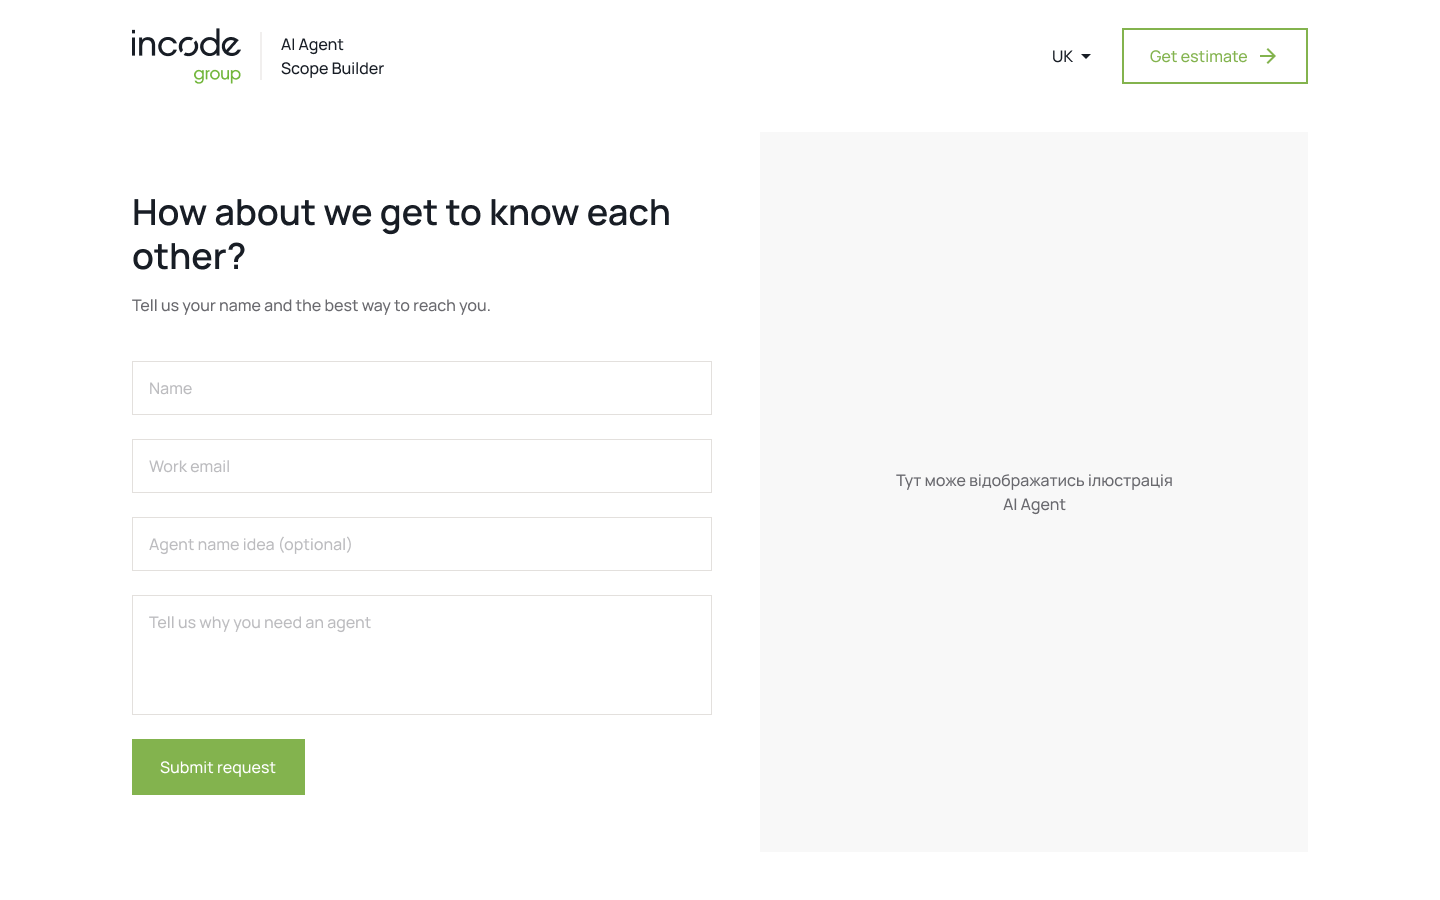
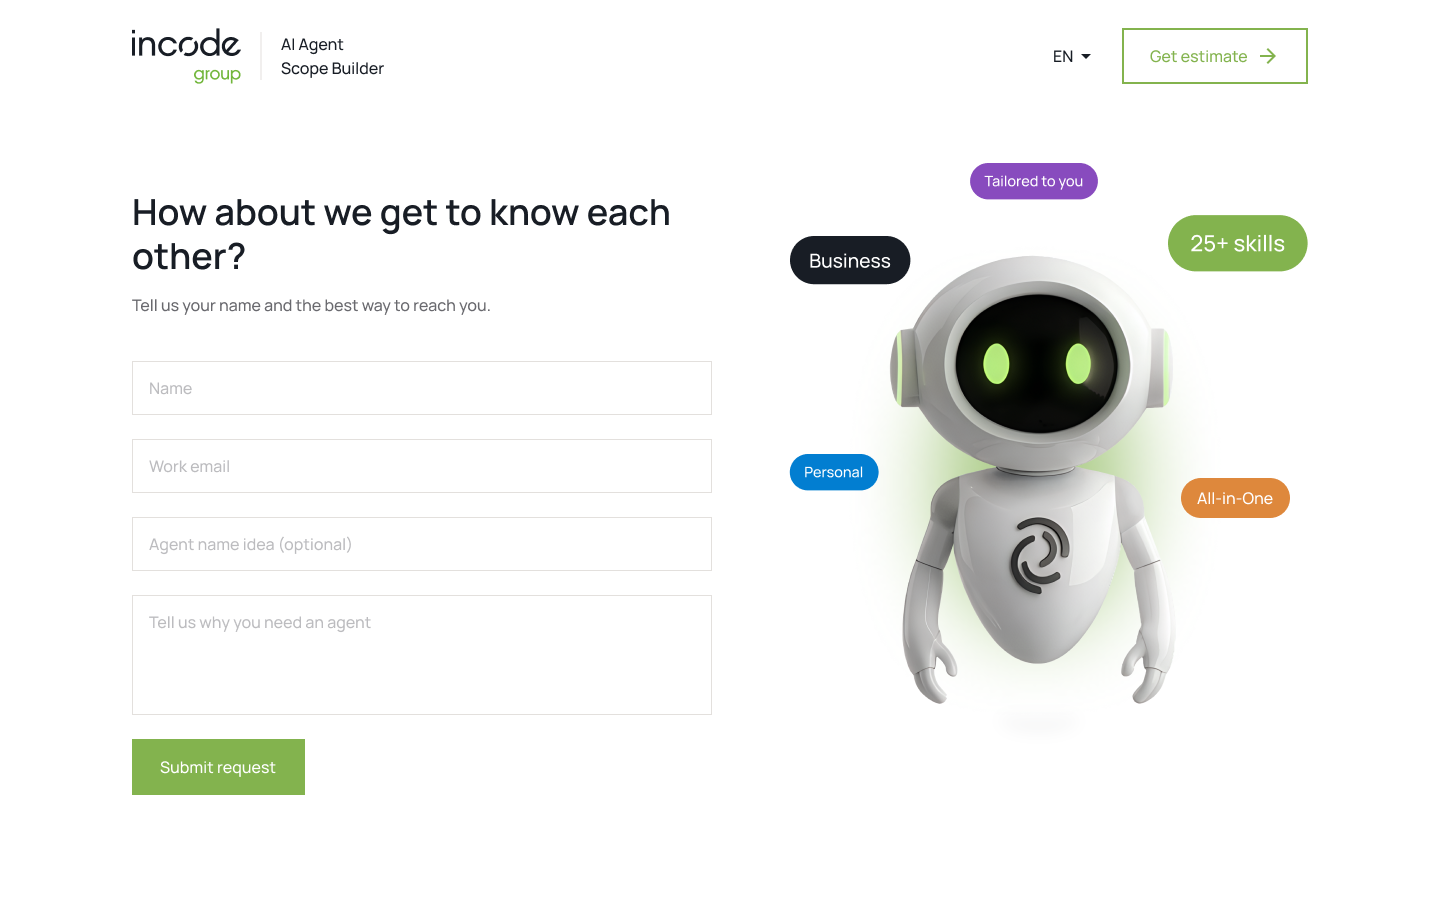
add real illustrations and reusable AppImage component
- Replace ImagePlaceholder with AppImage: resolves public/ paths against
  BASE_URL and multiply-blends the white-background artwork into its frame
- Wire goal and category images into en/uk mocks; landing, quick request
  and thank-you screens use the new illustrations
- Add --thumbnail (#f8f8f8) for goal/category image boxes; white goal preview
- Keep illustrations out of flow so Landing, Quick request and Thank you
  fit the viewport without vertical overflow
- Update header product name and re-exported design mockups

Changed region(s): [[0.5312, 0.2489, 0.9062, 0.7778], [0.8125, 0.2178, 0.9062, 0.3111], [0.6562, 0.1556, 0.7812, 0.2489]]

diff --git a/src/routes/wizard/goal/GoalPreview.tsx b/src/routes/wizard/goal/GoalPreview.tsx
@@ -1,24 +1,22 @@
 import type { Goal } from "@/api/schemas"
-import { ImagePlaceholder } from "@/components/common/ImagePlaceholder"
+import { AppImage } from "@/components/common/AppImage"
 import { Skeleton } from "@/components/common/Skeleton"
-
-/** The image shrinks with the viewport height so the panel fits the screen (see `fitScreen`). */
-const IMAGE_SIZE = "size-[min(18.75rem,30svh)]"
 
 export function GoalPreview({ goal }: { goal: Goal | undefined }) {
   return (
     <div
       aria-live="polite"
-      className="flex h-full flex-col items-center justify-center overflow-hidden bg-panel px-12 py-8 text-center"
+      className="flex h-full flex-col items-center justify-center overflow-hidden px-12 py-8 text-center"
     >
       {goal ? (
         <>
-          <ImagePlaceholder src={goal.image} className={`${IMAGE_SIZE} shrink-0 bg-background`} />
+          {/* Takes whatever height the text leaves, so the panel still fits the screen (see `fitScreen`). */}
+          <AppImage src={goal.image} className="max-h-104 min-h-0 w-full flex-1" />
           <h2 className="mt-9 text-[2rem] leading-tight text-ink">{goal.title}</h2>
           <p className="mt-4 max-w-72 text-base text-ink-muted">{goal.description}</p>
         </>
       ) : (
-        <Skeleton className={IMAGE_SIZE} />
+        <Skeleton className="size-[min(18.75rem,30svh)]" />
       )}
     </div>
   )

diff --git a/src/routes/wizard/skills/CategoryAccordion.tsx b/src/routes/wizard/skills/CategoryAccordion.tsx
@@ -2,7 +2,7 @@ import { Accordion as AccordionPrimitive } from "@base-ui/react/accordion"
 import { MinusIcon, PlusIcon } from "lucide-react"
 import { useTranslation } from "react-i18next"
 import type { Category } from "@/api/schemas"
-import { ImagePlaceholder } from "@/components/common/ImagePlaceholder"
+import { AppImage } from "@/components/common/AppImage"
 import { AccordionItem } from "@/components/ui/accordion"
 import { isCategoryFullySelected } from "@/store/selectors"
 import { useWizardActions, useWizardStore } from "@/store/wizard"
@@ -21,7 +21,10 @@ export function CategoryAccordion({ category }: { category: Category }) {
     >
       <AccordionPrimitive.Header>
         <AccordionPrimitive.Trigger className="group flex w-full items-start gap-3 text-left outline-none focus-visible:ring-3 focus-visible:ring-ring/50 sm:gap-4 cursor-pointer">
-          <ImagePlaceholder src={category.icon} className="size-14 shrink-0 sm:size-20" />
+          <AppImage
+            src={category.icon}
+            className="size-14 shrink-0 bg-thumbnail p-2 sm:size-20 sm:p-2.5"
+          />
           <span className="flex min-w-0 flex-1 flex-col gap-1 pt-1 sm:gap-2">
             <span className="text-lg font-semibold text-ink sm:text-xl">{category.title}</span>
             <span className="text-sm text-ink-muted sm:text-base">{category.description}</span>

diff --git a/src/routes/wizard/components/SummaryPanel.tsx b/src/routes/wizard/components/SummaryPanel.tsx
@@ -3,7 +3,7 @@ import { XIcon } from "lucide-react"
 import { useState } from "react"
 import { useTranslation } from "react-i18next"
 import type { CategoryGroup, Goal } from "@/api/schemas"
-import { ImagePlaceholder } from "@/components/common/ImagePlaceholder"
+import { AppImage } from "@/components/common/AppImage"
 import { Skeleton } from "@/components/common/Skeleton"
 import { selectedByCategory, type SelectedCategory } from "@/store/selectors"
 import { useWizardActions, useWizardStore } from "@/store/wizard"
@@ -23,15 +23,12 @@ export function SummaryPanel({ goal, catalog, onChangeCategory, disabled }: Summ
 
   return (
     <div
-      className="flex flex-col bg-panel p-5 sm:p-8 lg:min-h-159"
+      className="flex flex-col bg-thumbnail p-5 sm:p-8 lg:min-h-159"
       aria-label={t("summary.willDo")}
     >
       {goal ? (
         <div className="flex items-start gap-4">
-          <ImagePlaceholder
-            src={goal.image}
-            className="size-14 shrink-0 bg-background sm:size-20"
-          />
+          <AppImage src={goal.image} className="size-14 shrink-0 sm:size-20" />
           <div className="flex min-w-0 flex-col gap-2">
             <h2 className="text-xl leading-tight text-ink sm:text-[1.75rem]">{goal.title}</h2>
             <p className="text-base text-ink-muted">{goal.description}</p>

diff --git a/src/routes/QuickRequest.tsx b/src/routes/QuickRequest.tsx
@@ -7,7 +7,7 @@ import { useNavigate } from "react-router"
 import { quickRequestSchema, type QuickRequest as QuickRequestValues } from "@/api/schemas"
 import { submitQuickRequest } from "@/api/submit"
 import { FormField } from "@/components/common/FormField"
-import { ImagePlaceholder } from "@/components/common/ImagePlaceholder"
+import { AppImage } from "@/components/common/AppImage"
 import { Button } from "@/components/ui/button"
 import { Input } from "@/components/ui/input"
 import { Textarea } from "@/components/ui/textarea"
@@ -73,9 +73,13 @@ export default function QuickRequest() {
         </form>
       </section>
       {/* The form is the point on smaller screens; the illustration only fills the desktop column. */}
-      <ImagePlaceholder className="h-full max-h-180 min-h-96 bg-panel text-base max-lg:hidden">
-        {t("common.illustrationPlaceholder")}
-      </ImagePlaceholder>
+      <AppImage
+        src="common/landing.jpg"
+        alt={t("common.illustrationAlt")}
+        // Out of flow, so the form sets the page height and the image fills what is left.
+        className="relative h-full max-h-180 min-h-96 max-lg:hidden"
+        imgClassName="absolute inset-0"
+      />
     </main>
   )
 }

diff --git a/src/components/common/AppImage.tsx b/src/components/common/AppImage.tsx
@@ -1,0 +1,29 @@
+import { cn } from "cn"
+import { assetUrl } from "@/lib/utils"
+
+interface AppImageProps extends Omit<React.ImgHTMLAttributes<HTMLImageElement>, "src"> {
+  /** A full URL, a root path, or a path inside `public/` (e.g. `goals/personal.jpg`). */
+  src?: string
+  /** Classes for the `<img>` itself; `className` styles the frame around it. */
+  imgClassName?: string
+}
+
+/**
+ * An image fitted into a frame. The artwork is exported on white, so it is multiply-blended into
+ * whatever background the frame (or its parent) has. Without `src` it renders a neutral grey block.
+ */
+export function AppImage({ src, alt = "", className, imgClassName, ...props }: AppImageProps) {
+  if (!src) return <div aria-hidden className={cn("bg-placeholder", className)} />
+  return (
+    <div className={cn("flex items-center justify-center", className)}>
+      <img
+        src={assetUrl(src)}
+        alt={alt}
+        decoding="async"
+        loading="lazy"
+        className={cn("size-full object-contain mix-blend-multiply", imgClassName)}
+        {...props}
+      />
+    </div>
+  )
+}

diff --git a/src/routes/Success.tsx b/src/routes/Success.tsx
@@ -1,14 +1,17 @@
 import { useTranslation } from "react-i18next"
-import { ImagePlaceholder } from "@/components/common/ImagePlaceholder"
+import { AppImage } from "@/components/common/AppImage"
 
 export default function Success() {
   const { t } = useTranslation()
   return (
-    <main className="flex flex-1 flex-col items-center pt-12 pb-24 text-center sm:pt-24 lg:pt-36">
-      <ImagePlaceholder className="size-48 bg-panel sm:size-75" />
-      <h1 className="mt-9 text-[1.75rem] text-ink sm:text-[2rem]">
-        {t("success.title")}
-      </h1>
+    <main className="flex flex-1 flex-col items-center pt-8 pb-24 text-center sm:pt-6">
+      {/* Out of flow, so the image takes only the height the text leaves (up to its cap). */}
+      <AppImage
+        src="common/thank_you.jpg"
+        className="relative min-h-60 w-full flex-1 sm:max-h-120"
+        imgClassName="absolute inset-0"
+      />
+      <h1 className="mt-9 text-[1.75rem] text-ink sm:text-[2rem]">{t("success.title")}</h1>
       <p className="mt-2 max-w-sm text-base text-ink-muted">{t("success.subtitle")}</p>
     </main>
   )

diff --git a/src/routes/Landing.tsx b/src/routes/Landing.tsx
@@ -1,6 +1,6 @@
 import { AlarmClockIcon, ArrowRightIcon } from "lucide-react"
 import { useTranslation } from "react-i18next"
-import { ImagePlaceholder } from "@/components/common/ImagePlaceholder"
+import { AppImage } from "@/components/common/AppImage"
 import { ButtonLink } from "@/components/common/ButtonLink"
 
 export default function Landing() {
@@ -27,9 +27,14 @@ export default function Landing() {
           </ButtonLink>
         </div>
       </section>
-      <ImagePlaceholder className="h-80 bg-panel text-base max-md:hidden lg:h-full lg:max-h-180 lg:min-h-96">
-        {t("common.illustrationPlaceholder")}
-      </ImagePlaceholder>
+      <AppImage
+        src="common/landing.jpg"
+        alt={t("common.illustrationAlt")}
+        fetchPriority="high"
+        // Out of flow, so the text column sets the page height and the image fills what is left.
+        className="relative h-80 max-md:hidden lg:h-full lg:max-h-180 lg:min-h-96"
+        imgClassName="absolute inset-0"
+      />
     </main>
   )
 }

diff --git a/src/routes/wizard/goal/GoalCard.tsx b/src/routes/wizard/goal/GoalCard.tsx
@@ -1,6 +1,6 @@
 import { cn } from "cn"
 import type { Goal } from "@/api/schemas"
-import { ImagePlaceholder } from "@/components/common/ImagePlaceholder"
+import { AppImage } from "@/components/common/AppImage"
 
 interface GoalCardProps {
   goal: Goal
@@ -27,9 +27,12 @@ export function GoalCard({ goal, checked, onSelect }: GoalCardProps) {
         onChange={onSelect}
         className="sr-only"
       />
-      <ImagePlaceholder
+      <AppImage
         src={goal.image}
-        className={cn("size-14 shrink-0 sm:size-20 short:size-16", checked && "bg-background")}
+        className={cn(
+          "size-14 shrink-0 bg-thumbnail p-1 sm:size-20 short:size-16",
+          checked && "bg-background",
+        )}
       />
       <span className="flex min-w-0 flex-col gap-1 sm:gap-2">
         <span className="text-lg font-semibold text-ink sm:text-xl">{goal.title}</span>

diff --git a/src/index.css b/src/index.css
@@ -27,6 +27,7 @@
   --line-strong: #1b1d1f;
   --panel: #f7f7f7;
   --placeholder: #efefef;
+  --thumbnail: #f8f8f8;
   --danger: #d93025;
   --border-grey: #dde1e6;
 
@@ -68,6 +69,7 @@
   --color-border-grey: var(--border-grey);
   --color-panel: var(--panel);
   --color-placeholder: var(--placeholder);
+  --color-thumbnail: var(--thumbnail);
   --color-danger: var(--danger);
 
   --color-ring: var(--ring);

diff --git a/src/lib/utils.ts b/src/lib/utils.ts
@@ -1,1 +1,8 @@
 export { cn } from "cn"
+
+const ABSOLUTE_URL = /^([a-z][a-z\d+.-]*:|\/)/i
+
+/** Paths inside `public/` are resolved against the deploy base so they work on GitHub Pages. */
+export function assetUrl(src: string) {
+  return ABSOLUTE_URL.test(src) ? src : `${import.meta.env.BASE_URL}${src}`
+}

diff --git a/docs/IMPLEMENTATION_PLAN.md b/docs/IMPLEMENTATION_PLAN.md
@@ -334,7 +334,7 @@ src/
   components/
     ui/                 # shadcn (Base UI) primitives
     layout/             # Header, LanguageSwitcher, HeaderCta
-    common/             # shared across pages (ButtonLink, FormField, ImagePlaceholder, …)
+    common/             # shared across pages (ButtonLink, FormField, AppImage, …)
   api/
     client.ts
     catalog.ts          # getGoals, getCategories
